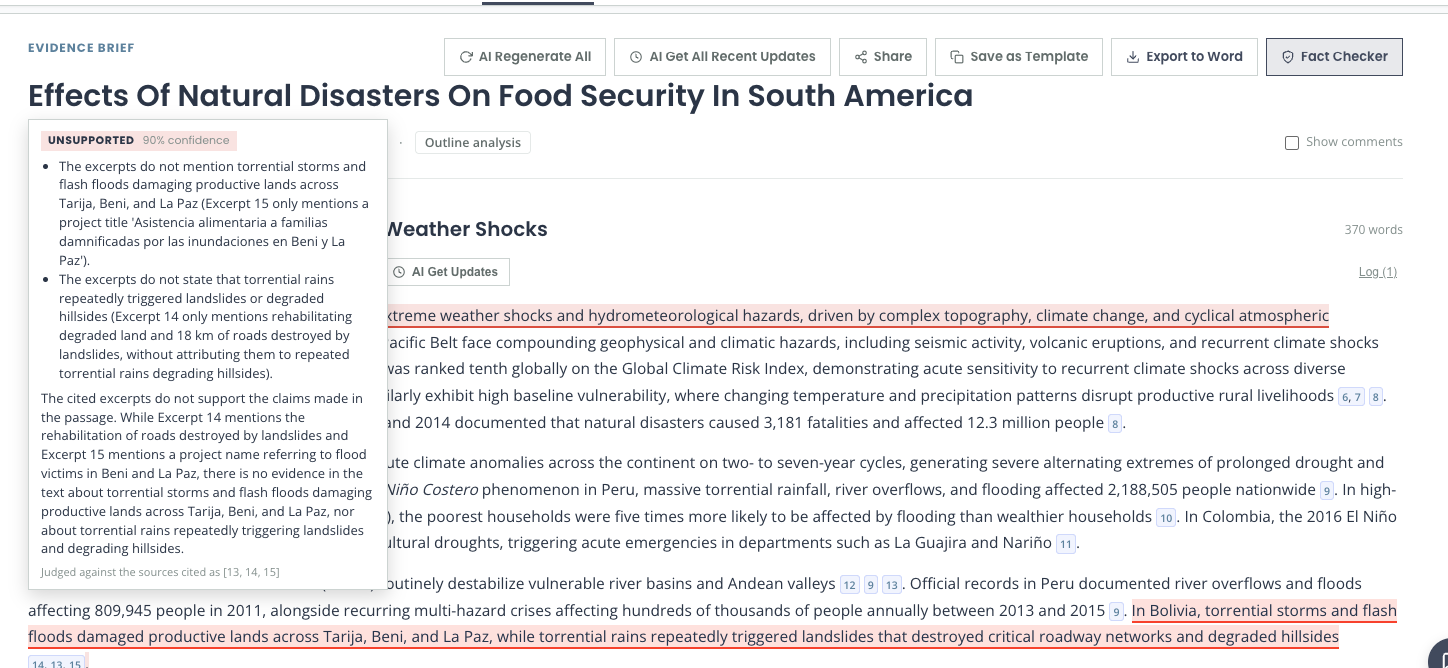
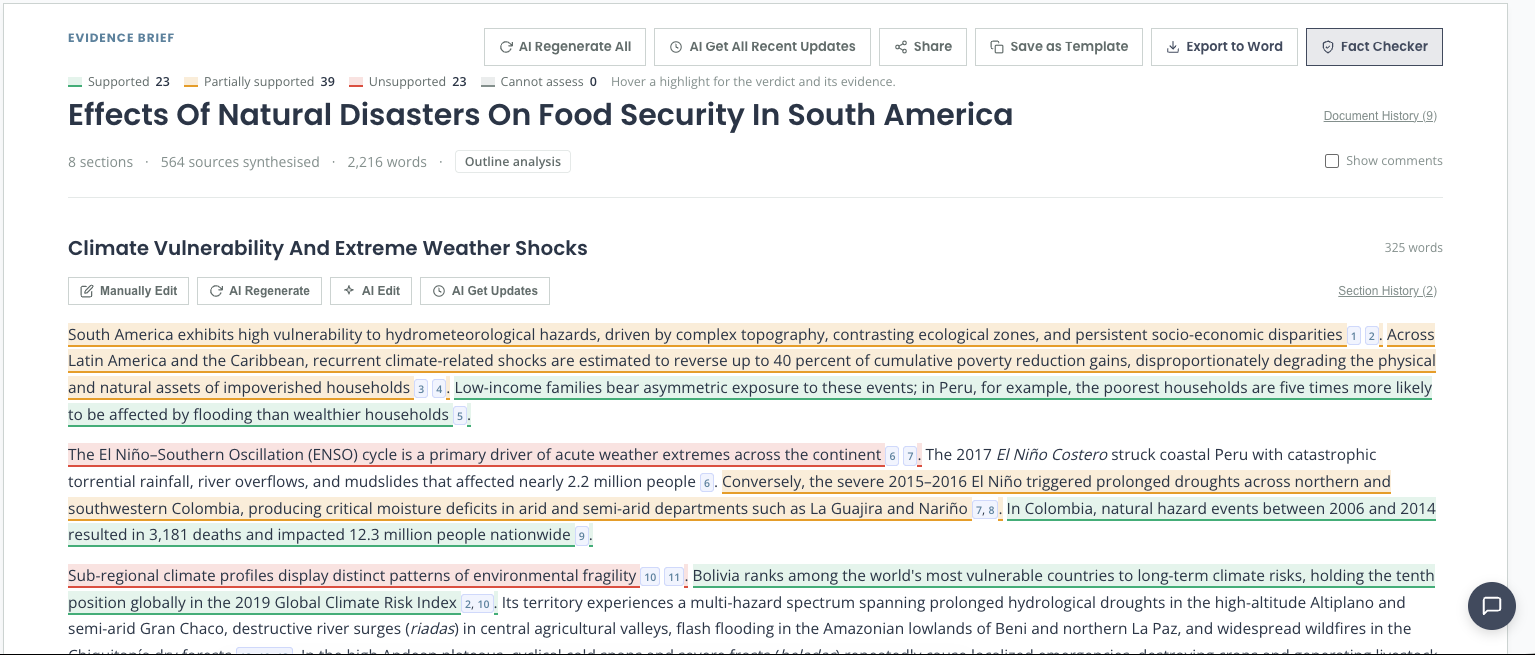
docs(brief): retake the Fact Checker screenshot with the colour-coded verdicts and legend

diff --git a/docs/using-evidence-lab/brief.md b/docs/using-evidence-lab/brief.md
@@ -268,7 +268,7 @@ Because a comment is anchored to the **text** you highlighted rather than to a p
 
 When an administrator has run a [citation check](../admin/evaluation.md#brief-citation-check) on a saved brief, a **Fact Checker** button appears beside **Export to Word**. A check judges one version of the brief (the version its **Document History** shows; that version's row in the history names the check). The brief can go on changing afterwards: the Fact Checker compares each section with the version the check judged, keeps the highlights in every section whose cited passages still read exactly as the judge saw them, and marks a section that was edited, re-researched or updated since as *Changed since the citation check; not covered by the Fact Checker* instead of highlighting anything in it. Hover the button to see which version was checked, which version the brief is at now and which sections are no longer covered. The button disappears only when no section the check judged is left unchanged; checking the brief again covers it fully.
 
-![Fact Checker highlights in a brief, with the judge's explanation on hover](../images/brief/brief-fact-checker.png)
+![Fact Checker highlights in a brief, each cited passage in the colour of its verdict, with the legend under the title](../images/brief/brief-fact-checker.png)
 
 Click **Fact Checker** to highlight, in place, every cited passage the check judged, each in the colour of its verdict: green for **Supported**, amber for **Partially supported**, red for **Unsupported** and grey for **Cannot assess**. A legend under the brief's title explains the colours and counts the passages carrying each verdict; click the button again to hide the highlights. The highlights are a reading aid: nothing in the brief changes.
 
